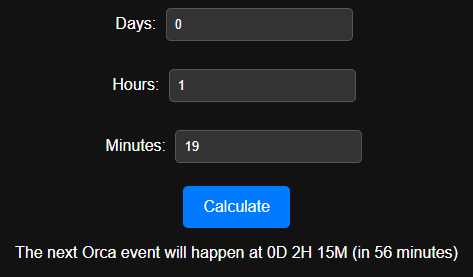
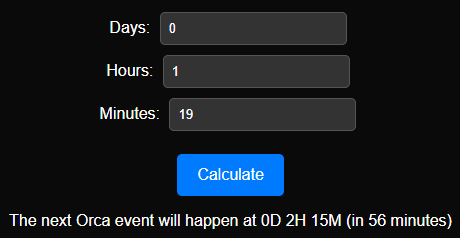
Updated design to feel less cluttered; minor code changes.

diff --git a/index.html b/index.html
@@ -14,10 +14,9 @@
 </head>
 <body>
     <h1>Fisch Orca Migration Calculator</h1>
-    <p>Enter your server's uptime below to calculate the next migration event.</p>
-    <p><strong>How to find your server uptime:</strong> Open the menu, then enable the "Server Info UI is Enabled" option to view your server info. Then, find the data in the bottom left of your screen.</p>
-    <label>Days: <input type="number" id="days" min="0"></label><br>
-    <label>Hours: <input type="number" id="hours" min="0"></label><br>
+    <p>Enter your server's uptime below to calculate the next migration event.<br>You can find it by enabling the server info UI in the Menu.</p><br>
+    <label>Days: <input type="number" id="days" min="0"></label>
+    <label>Hours: <input type="number" id="hours" min="0"></label>
     <label>Minutes: <input type="number" id="minutes" min="0"></label><br>
     <button onclick="calculateMigration()">Calculate</button>
     <p id="result">The next migration will happen at...</p>
@@ -60,15 +59,7 @@
         const collapsible_btn = document.getElementById("collapsible-button");
         collapsible_btn.addEventListener("click", function() {
             this.classList.toggle("active");
-            var content = this.nextElementSibling;
-            var arrow = this.querySelector('.arrow');
-            if (content.style.display === "block") {
-                content.style.display = "none";
-                arrow.textContent = "↓";
-            } else {
-                content.style.display = "block";
-                arrow.textContent = "↑";
-            }
+            this.nextElementSibling.classList.toggle("active");
         });
     </script>
 </body>

diff --git a/styles.css b/styles.css
@@ -1,7 +1,7 @@
 body {
     font-family: Arial, sans-serif;
     text-align: center;
-    padding: 50px;
+    padding: 30px;
     background-color: #0a0a0a;
     color: #ffffff;
     display: flex;
@@ -61,6 +61,9 @@ button:hover {
 .collapsible-button:hover {
     transform: scale(1.05);
 }
+.collapsible-button.active .arrow {
+    transform: rotate(180deg);
+}
 .collapsible-content {
     padding: 10px;
     margin-top: 0px;
@@ -72,6 +75,9 @@ button:hover {
     max-width: 450px;
     margin-left: auto;
     margin-right: auto;
+}
+.collapsible-content.active {
+    display: block;
 }
 .example-images {
     display: flex;
